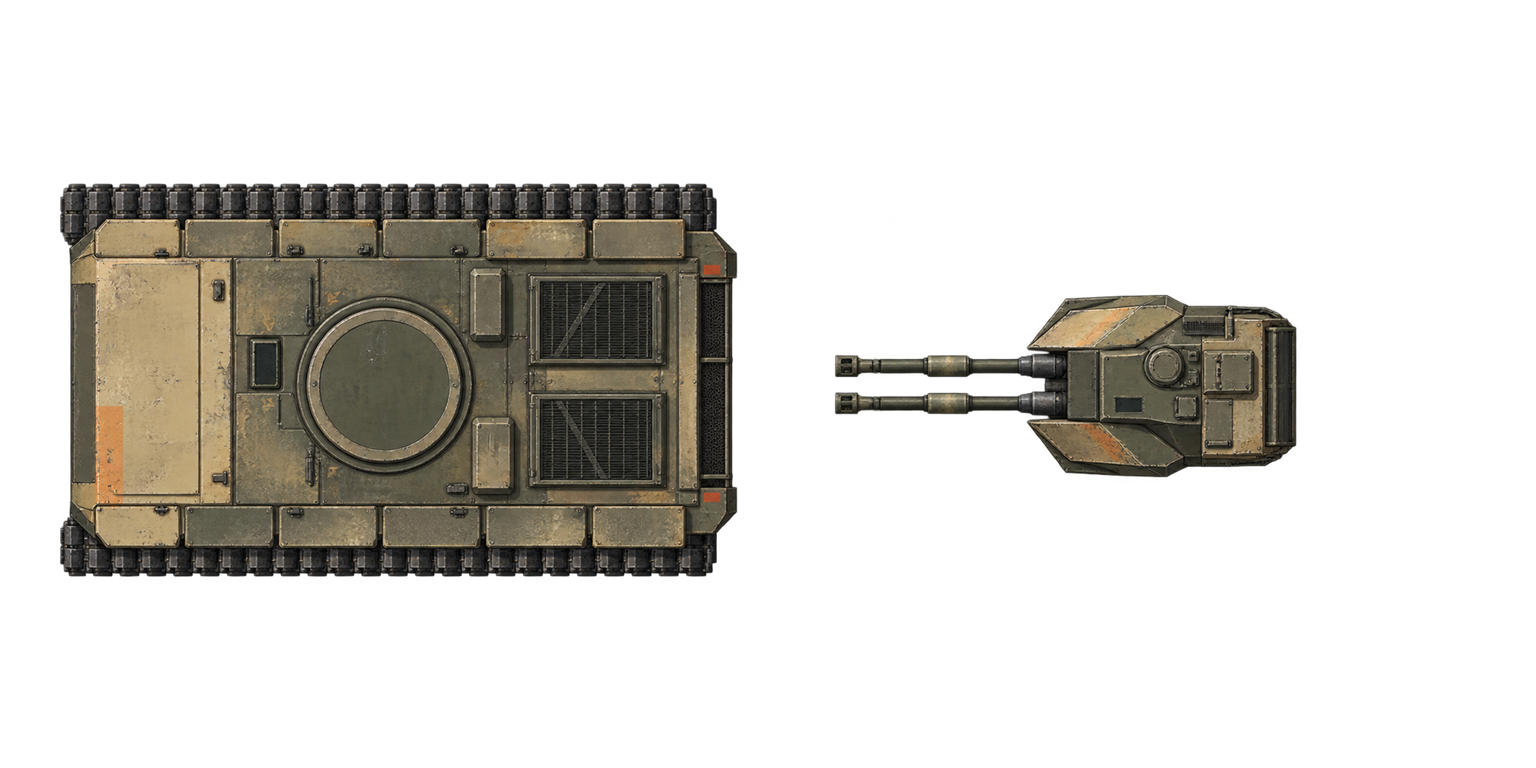
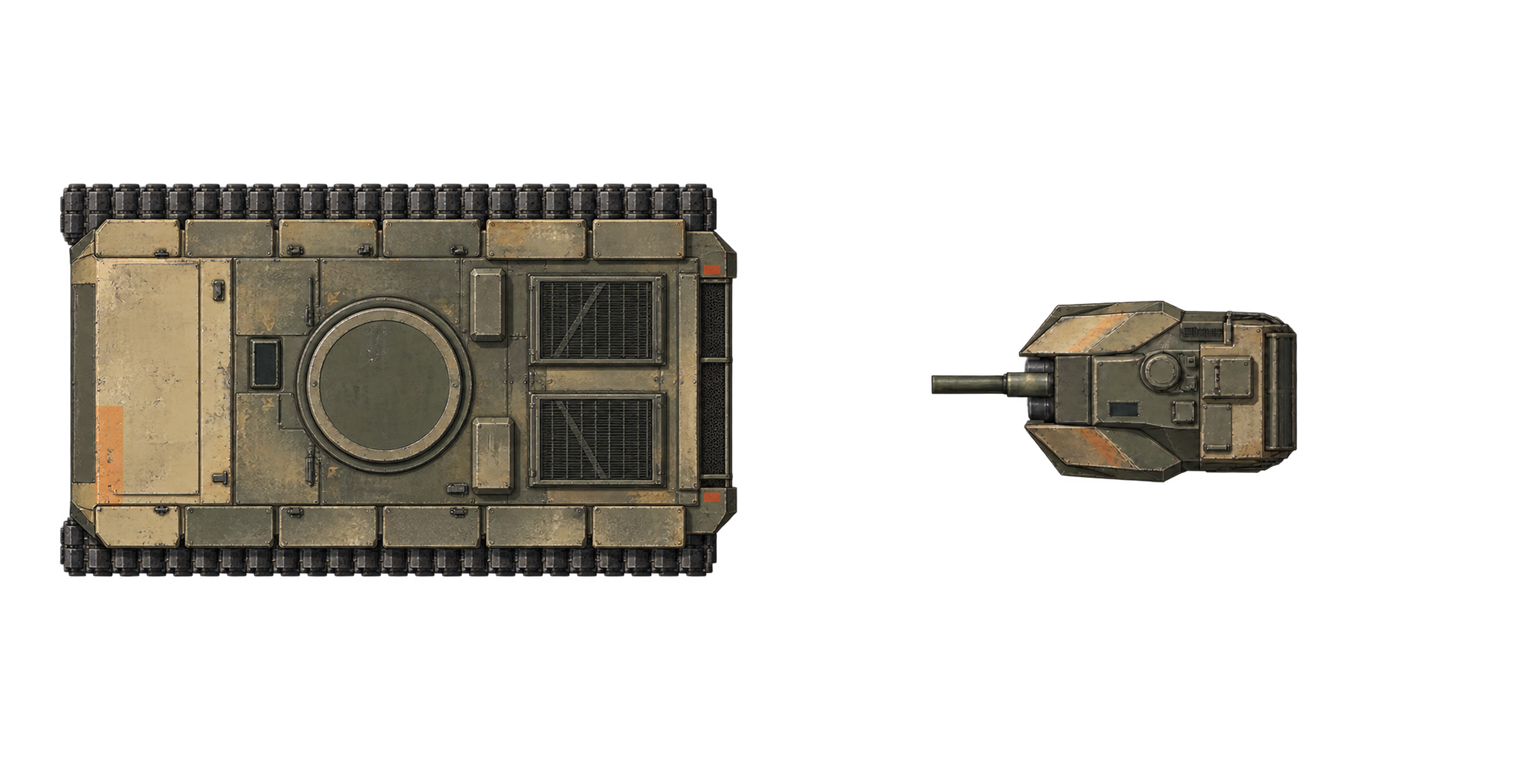
Fit a short single tank cannon and add campaign vehicle comparison

Changed region(s): [[0.5312, 0.375, 0.8438, 0.625]]

diff --git a/src/test/java/com/dillon/starsectormarines/ops/TankSnapshotSuite.java b/src/test/java/com/dillon/starsectormarines/ops/TankSnapshotSuite.java
@@ -1,17 +1,28 @@
 package com.dillon.starsectormarines.ops;
 
+import com.dillon.starsectormarines.battle.air.ShuttleAssignment;
+import com.dillon.starsectormarines.battle.air.ShuttleType;
 import com.dillon.starsectormarines.battle.nav.NavigationGrid;
+import com.dillon.starsectormarines.battle.setup.BattleSetup;
 import com.dillon.starsectormarines.battle.sim.BattleSimulation;
 import com.dillon.starsectormarines.battle.turret.TurretMountGeometry;
 import com.dillon.starsectormarines.battle.unit.Faction;
 import com.dillon.starsectormarines.battle.vehicle.VehicleMission;
 import com.dillon.starsectormarines.battle.vehicle.VehicleType;
 import com.dillon.starsectormarines.battle.world.model.CellTopology;
+import com.dillon.starsectormarines.battle.world.gen.SettlementLink;
+import com.dillon.starsectormarines.battle.world.gen.SurfacePalette;
+import com.dillon.starsectormarines.battle.world.gen.TargetProfile;
+import com.dillon.starsectormarines.campaign.FreightRunProgress;
 import com.dillon.starsectormarines.ops.battleview.BattleReviewFrameRenderer;
+import com.dillon.starsectormarines.ops.battleview.HeadlessArmoryPreviewRenderer;
 import com.dillon.starsectormarines.ops.battleview.ReviewAnnotation.Point;
 import com.dillon.starsectormarines.ops.battleview.ReviewAnnotations;
 import com.dillon.starsectormarines.ops.battleview.ReviewStyle;
 import com.dillon.starsectormarines.testsupport.DiskRegistries;
+import com.dillon.starsectormarines.testsupport.HeadlessSvgAssets;
+import com.dillon.starsectormarines.testsupport.InstalledHullSpecs;
+import com.dillon.starsectormarines.testsupport.InstalledVanillaData;
 import com.dillon.starsectormarines.tools.snapshot.SnapshotArtifact;
 import com.dillon.starsectormarines.tools.snapshot.SnapshotContext;
 import com.dillon.starsectormarines.tools.snapshot.SnapshotSuite;
@@ -19,6 +30,7 @@ import com.dillon.starsectormarines.tools.snapshot.SnapshotSuite;
 import java.awt.image.BufferedImage;
 import java.util.ArrayList;
 import java.util.List;
+import java.util.Set;
 
 /** Production convoy art poses plus a controlled autonomous-fire recoil review. */
 public final class TankSnapshotSuite implements SnapshotSuite {
@@ -62,7 +74,7 @@ public final class TankSnapshotSuite implements SnapshotSuite {
             markMuzzles(sweep, north, marks);
             markMuzzles(sweep, diagonal, marks);
             frames.add(renderer.render(sweep, "Tank registration | posed bearing " + angle
-                    + " degrees | crosses mark both ballistic muzzles | camera zoom only, UI 100%",
+                    + " degrees | crosses mark the single ballistic muzzle | camera zoom only, UI 100%",
                     marks.build()));
         }
         artifacts.add(new SnapshotArtifact("muzzle-registration.png", frames.get(0)));
@@ -82,14 +94,52 @@ public final class TankSnapshotSuite implements SnapshotSuite {
             firing.advance(BattleSimulation.TICK_DT);
             rounds += (int) firing.getShotsThisFrame().stream().filter(shot -> shot.shooterId == tank).count();
             if (tick % 2 == 0) recoil.add(renderer.render(firing,
-                    "Tank firing review | real paired-cannon shots and existing visual recoil | 1920 x 1080, UI 100%"));
+                    "Tank firing review | single cannon, existing two-round burst and recoil | 1920 x 1080, UI 100%"));
         }
-        if (rounds < 2) throw new IllegalStateException("Paired cannon did not fire: " + rounds);
+        if (rounds < 2) throw new IllegalStateException("Cannon burst did not fire: " + rounds);
         artifacts.add(SnapshotArtifact.colorAnimation("firing-recoil.gif", recoil, 67));
         firing.close();
         sweep.close();
         matrix.close();
+        campaignComparison(context, artifacts);
         return List.copyOf(artifacts);
+    }
+
+    /** Actual campaign factory and initial vehicle positions; only gun bearings are posed. */
+    private static void campaignComparison(SnapshotContext context, List<SnapshotArtifact> artifacts)
+            throws Exception {
+        HeadlessSvgAssets.install(context.modRoot());
+        HeadlessArmoryPreviewRenderer.installCatalogs(context.modRoot());
+        InstalledHullSpecs.install();
+        InstalledVanillaData.install();
+        var profile = new TargetProfile(0, 0, 0, 0, "", Set.of(),
+                SurfacePalette.VERDANT, SettlementLink.ROAD);
+        var manifest = List.of(new ShuttleAssignment(ShuttleType.AEROSHUTTLE, 2, 6),
+                new ShuttleAssignment(ShuttleType.AEROSHUTTLE, 2, 6));
+        var attempt = new FreightRunProgress("tank-art-thunder-run").previewAttempt();
+        try (var sim = BattleSetup.createThunderRun(9301, manifest, profile, attempt, 0)) {
+            ReviewAnnotations.Builder labels = ReviewAnnotations.builder();
+            for (long id : sim.getConvoyVehicleIds()) {
+                var body = sim.convoy().body(id);
+                var type = sim.convoy().vehicleType(id);
+                if (type.hasTurretWeapon()) sim.convoy().turret(id).facingDeg = body.facingDegrees;
+                if (body.x > 45) continue;
+                String name = switch (type) {
+                    case BREAKTHROUGH_TANK -> "TANK / SINGLE CANNON";
+                    case ESCORT_APC -> "APC ESCORT";
+                    case MILITIA_TECHNICAL -> "MILITIA TECHNICAL";
+                    case CARGO_CARRIER -> "FREIGHT HAULER";
+                    default -> type.name();
+                };
+                labels.label(body.x, body.y - 2.8f, name, ReviewStyle.NOTE);
+            }
+            var renderer = new BattleReviewFrameRenderer(context.modRoot(), 1920, 1080, 27, 76, 60);
+            artifacts.add(new SnapshotArtifact("campaign-context.png", renderer.render(sim,
+                    "THUNDER RUN / staging apron / seed 9301 / initial vehicle positions, guns posed forward / UI 100%")));
+            artifacts.add(new SnapshotArtifact("campaign-comparison.png", renderer.refocus(24, 76, 44).render(sim,
+                    "THUNDER RUN / tank, APCs, technical and freight / camera zoom only / 1920 x 1080, UI 100%",
+                    labels.build())));
+        }
     }
 
     private static BattleSimulation scene() {
@@ -110,13 +160,11 @@ public final class TankSnapshotSuite implements SnapshotSuite {
     private static void markMuzzles(BattleSimulation sim, long id, ReviewAnnotations.Builder marks) {
         var body = sim.convoy().body(id);
         // Tank bearing is registered at the chassis center; no body-relative mount offset.
-        for (int release = 0; release < 2; release++) {
-            var muzzle = TurretMountGeometry.muzzle(body.x, body.y,
-                    sim.convoy().turret(id).facingDeg, TANK.turretStructure().mount, release);
-            // Polyline points address cell centers; physical muzzles are world positions.
-            float x = muzzle.x() - .5f, y = muzzle.y() - .5f;
-            marks.polyline(List.of(new Point(x - .08f, y), new Point(x + .08f, y)), "", ReviewStyle.NOTE);
-            marks.polyline(List.of(new Point(x, y - .08f), new Point(x, y + .08f)), "", ReviewStyle.NOTE);
-        }
+        var muzzle = TurretMountGeometry.muzzle(body.x, body.y,
+                sim.convoy().turret(id).facingDeg, TANK.turretStructure().mount, 0);
+        // Polyline points address cell centers; physical muzzles are world positions.
+        float x = muzzle.x() - .5f, y = muzzle.y() - .5f;
+        marks.polyline(List.of(new Point(x - .08f, y), new Point(x + .08f, y)), "", ReviewStyle.NOTE);
+        marks.polyline(List.of(new Point(x, y - .08f), new Point(x, y + .08f)), "", ReviewStyle.NOTE);
     }
 }

diff --git a/src/main/java/com/dillon/starsectormarines/ops/SupplyRouteCampaign.java b/src/main/java/com/dillon/starsectormarines/ops/SupplyRouteCampaign.java
@@ -86,7 +86,7 @@ public final class SupplyRouteCampaign {
         String terms = kind == BrokenSupplyRouteProgress.JUNCTION
                 ? "Mara Venn: Getting the depot back has put Wayline on its feet again, Commander, but our freight is still stuck at the junction. When we sold the freighters, a debt-recovery outfit called Varro bought part of what we owed, and they have taken the junction as security: a toll on our drivers at the Weigh Station, and three months of contracted loads impounded in the bonded warehouse. The civil authority on Jangala calls it a lien between two freight companies and will not touch it. Iona Serr, our dispatch coordinator, needs the junction opened. Capture Weigh Station, Freight Yard and Junction Dispatch together. Six militia hold your gains while the company advances. Talon Two, a contracted Mudskipper gunship, goes ahead of your company to work the trenches dug across the road. You're paid on success; then we run the freed loads through the corridor on Thunder Run."
                 : kind == BrokenSupplyRouteProgress.THUNDER
-                ? "Mara Venn: The junction is open. Now we put freight through the corridor. Land at the staging apron, clear the roadside strongpoints at Dispatch Post, East Crossing and Outbound Gate. On our first arrival, an earlier unescorted hauler is already under attack; its local camera feed shows the danger. The loads freed at the junction wait at staging. Talon Two returns to give your company close air support after Dispatch is secured. We've hired more ground muscle for the final breakthrough: a twin-cannon heavy tank and two reinforced APCs. Clear Dispatch, then defend for 90 seconds; take East Crossing and defend for 120 seconds while small raider groups enter along the cross streets. Select an infantry squad and use DEFEND AREA to cover an approach. Eight militia anchor the gains and assemble two roadside machine guns if their crews reach the posts. Give your squads a new order when the dispatch window ends. Our three loads move in stages, with freight released at 45-second intervals during the final breakthrough. Beyond Outbound Gate, raiders hold a fenced inspection checkpoint with dug-in machine guns and rifle bays. The tank breaks that gun line; the APCs screen the crossing while the freight passes between them. Keep the road open for the convoy; raiders will try to cut off the column. Wayline is paying for the armored crews and vehicles; your company leads the advance. You're paid when the run is complete, with more for every carrier that gets through. Dispatch tracks every delivery and loss; if we have to pull back, we return for the remaining loads. Get at least one through and we can fund regular Route Security contracts."
+                ? "Mara Venn: The junction is open. Now we put freight through the corridor. Land at the staging apron, clear the roadside strongpoints at Dispatch Post, East Crossing and Outbound Gate. On our first arrival, an earlier unescorted hauler is already under attack; its local camera feed shows the danger. The loads freed at the junction wait at staging. Talon Two returns to give your company close air support after Dispatch is secured. We've hired more ground muscle for the final breakthrough: a heavy tank and two reinforced APCs. Clear Dispatch, then defend for 90 seconds; take East Crossing and defend for 120 seconds while small raider groups enter along the cross streets. Select an infantry squad and use DEFEND AREA to cover an approach. Eight militia anchor the gains and assemble two roadside machine guns if their crews reach the posts. Give your squads a new order when the dispatch window ends. Our three loads move in stages, with freight released at 45-second intervals during the final breakthrough. Beyond Outbound Gate, raiders hold a fenced inspection checkpoint with dug-in machine guns and rifle bays. The tank breaks that gun line; the APCs screen the crossing while the freight passes between them. Keep the road open for the convoy; raiders will try to cut off the column. Wayline is paying for the armored crews and vehicles; your company leads the advance. You're paid when the run is complete, with more for every carrier that gets through. Dispatch tracks every delivery and loss; if we have to pull back, we return for the remaining loads. Get at least one through and we can fund regular Route Security contracts."
                     + " Terms: Cr. 6,000, plus 4,000 per carrier delivered across the job, up to 18,000, settled when the run is complete."
                 : "Mara Venn: Capture Power Yard, Freight Gate and Relay Hall, retaining the landing apron. Eight militia hold secured ground while your company pushes forward. A limited raider reserve will try to retake your gains. Wayline pays for each security job held.";
         if (kind == BrokenSupplyRouteProgress.THUNDER && p.freight() != null) terms += " Freight ledger: " + p.freight().summary() + ".";

diff --git a/src/test/java/com/dillon/starsectormarines/battle/vehicle/GroundVehicleTurretSystemTest.java b/src/test/java/com/dillon/starsectormarines/battle/vehicle/GroundVehicleTurretSystemTest.java
@@ -203,7 +203,7 @@ class GroundVehicleTurretSystemTest {
     }
 
     @Test
-    void tankPairUsesSeparateMuzzlesAndStopsWhenItsFiniteMagazineIsEmpty() {
+    void tankBurstUsesSingleCenteredMuzzleAndStopsWhenItsFiniteMagazineIsEmpty() {
         Fixture f = new Fixture(VehicleType.BREAKTHROUGH_TANK);
         f.grid.setWalkable(20, 45, false);
         f.turret.ammo = 2;
@@ -215,7 +215,9 @@ class GroundVehicleTurretSystemTest {
         assertEquals(2, f.detonations.size(), "each shell has one shared blast, not a cosmetic duplicate");
         var first = f.shots.getActiveShots().get(0);
         var second = f.shots.getActiveShots().get(1);
-        assertEquals(2 * f.mount.mount.muzzleLateralOffsetCells, second.fromX - first.fromX, .001f);
+        assertEquals(f.mountX(), first.fromX, .001f);
+        assertEquals(first.fromX, second.fromX, .001f);
+        assertEquals(first.fromY, second.fromY, .001f);
         assertEquals(f.mountY() + f.mount.mount.muzzleOffsetCells, first.fromY, .001f);
         assertTrue(f.weapon.contactDamage > f.weapon.damage);
         assertTrue(f.weapon.contactPenetration > f.weapon.penetration);

diff --git a/src/test/java/com/dillon/starsectormarines/ops/battleview/ShotFxTest.java b/src/test/java/com/dillon/starsectormarines/ops/battleview/ShotFxTest.java
@@ -99,7 +99,7 @@ public class ShotFxTest {
             } else if (TurretCatalogRegistry.HEAVY_MG_STRUCTURE_ID.equals(structure.id)) {
                 assertTracerTail(fx, weapon, 0.55f, "heavy MG");
             } else if (TurretCatalogRegistry.TANK_CANNON_STRUCTURE_ID.equals(structure.id)) {
-                assertTracerTail(fx, weapon, 0.9f, "tank twin cannon");
+                assertTracerTail(fx, weapon, 0.9f, "tank cannon");
             } else {
                 assertNull(fx.tracerTail(), "turret has no authored tracer tail: " + structure.id);
             }

diff --git a/art-source/vehicles/tank/README.md b/art-source/vehicles/tank/README.md
@@ -1,22 +1,23 @@
-# Breakthrough tank and twin cannon
+# Breakthrough tank and single cannon
 
-Generated with built-in ImageGen from the geometry in `guide.png` and the exact
-saved `prompt.txt`. This pass replaces the rejected projecting bow and rounded
-turret with a broad, flat-fronted chassis inspired by the M1 Abrams and Japanese
-Type 10: long track runs, shallow front corner clips, a sloping upper glacis,
-driver position forward of the bearing and a rectangular rear engine deck.
+Built-in ImageGen produced the approved Abrams/Type 10-inspired hull and armor
+from the original prompt in `prompt.txt`. The current `guide.ps1` / `guide.png`
+retain that flat-fronted chassis and angular turret, with a shorter single cannon.
+The exposed tube is roughly half its previous length, with one modest collar
+and a plain muzzle. The compact armor cheeks and squared rear bustle still
+carry the silhouette. Faded khaki/olive-gray paint, ochre remnants and replacement
+panels suggest maintained, century-old Hegemony salvage. This provenance is
+Marine Operations art direction, not vanilla canon.
 
-The compact independent turret has separate angular cheek modules, a narrow
-mantlet and a squared rear ammunition bustle. Broad plane values and restrained
-bevels imply height from strict overhead. The twin cannons retain the existing
-weapon contract. Faded khaki/olive-gray paint, ochre remnants and mismatched
-replacement panels suggest maintained, scavenged Hegemony equipment a century
-old. This is user-directed Marine Operations fiction, not vanilla provenance.
+`master.png` is the unmodified 1774x887 original generation and remains the
+hull source. `turret-master.png` is the unmodified 1774x887 ImageGen edit made
+with `turret-prompt.txt`, using the original master as the edit target and
+the updated guide as the barrel geometry reference. Only its turret is used;
+the approved hull pixels are retained exactly.
 
-`master.png` is the unmodified 1774x887 generated result. ImageGen changed the
-guide's component scale and placement. `registration.json` records the measured
-rectangles, centers and uniform scales. `pack.ps1` preserves source alpha and
-proportions while registering two full 768x768 slots into
+`registration.json` names the source, measured rectangle, bearing and uniform
+scale for each component. `pack.ps1` preserves alpha and proportions while
+registering two full 768x768 slots into
 `mod/graphics/battle/vehicles/army-tank.png`. Reproduce with:
 
 ```powershell
@@ -24,22 +25,23 @@ proportions while registering two full 768x768 slots into
 & art-source/vehicles/tank/pack.ps1
 ```
 
-The hull bearing is at source (508,451), uniformly scaled by 0.73. The turret
-bearing is (1498,460.5), uniformly scaled by 0.7309469115702443. Both land on
-the centers of their output frames; mount and pivot compensation remain zero.
-The registered-frame loader retains alpha margins in production and headless
-review, rather than trimming the barrels and shifting the pivot.
+The hull bearing remains (508,451), scaled by 0.73. The new turret bearing is
+(1498,454), scaled by 0.7; its muzzle is (1182,454). Both components land on
+their output frame centers, with zero mount/pivot compensation. The unchanged
+4.3-cell hull frame and 7.789194-cell turret frame retain their alpha margins.
+The new centered muzzle is 2.2434501 cells forward, down from 3.21, with zero
+lateral offset. These are measured art registration values, not balance tuning.
 
-The unchanged hull frame is 4.3 cells long; the gun frame is 7.789194 cells.
-Gun source tips (1065,435) and (1065,486) land 3.21 cells forward and
-+/-0.18904 cells laterally, within 0.001 cells of the shared +/-0.19 hardpoints.
-Frame size includes transparency and is not the physical turret width.
-Weapon damage, ammunition, cadence, range, chassis footprint, movement and
-existing visual recoil are unchanged.
+The existing two-round burst, damage, ammunition, range and recoil remain.
+Both rounds now leave the same barrel. The visible catalog name is Breach
+Cannon; internal `tank-twin-cannon` ids and localization keys remain stable
+for compatibility with existing references.
 
-Review using `gradlew createSnapshots -Psnapshot=tank`. The suite renders
-four hull headings with independent gun bearings, a battle-scale still,
-a full posed turret rotation with crosses on both ballistic muzzles, and actual
-autonomously fired paired shots through the existing recoil renderer. All artifacts
-are 1920x1080 at 100% UI; close views change only the camera. Rotation poses
-are art evidence, not traverse timing or mission acceptance.
+Run `gradlew createSnapshots -Psnapshot=tank` for headings, battle scale,
+marked muzzle rotation and actual autonomous firing/recoil. The suite also
+builds Thunder Run seed 9301 through its production campaign factory and renders
+`campaign-context.png` and `campaign-comparison.png`: the actual starting
+tank, two APC escorts, technical and three cargo haulers. Initial positions and
+terrain are untouched; turret bearings are posed forward for visual comparison.
+All artifacts are 1920x1080 at 100% UI; close views change only camera zoom.
+This is pre-combat art evidence, not a mission balance or live-save acceptance run.

diff --git a/CLAUDE.md b/CLAUDE.md
@@ -1213,7 +1213,7 @@ The discovered suite ids and default output directories are:
 | Suite | Evidence | Output |
 |-------|----------|--------|
 | `apc` | Registered overhead APC hulls at four headings and battle scale, plus a full independent twin-MG rotation with ballistic muzzle marks; controlled art poses at 1920x1080/100%, not traverse timing or combat acceptance | `build/snapshots/apc/` |
-| `tank` | Registered tracked hull and twin-cannon turret at four headings and battle scale, full posed rotation with ballistic muzzle marks, and real autonomous-fire recoil; 1920x1080/100% art evidence, not mission acceptance | `build/snapshots/tank/` |
+| `tank` | Registered tracked hull and short single-cannon turret at four headings, full posed rotation with muzzle marks, real autonomous-fire recoil, and the production Thunder Run staging column alongside APCs, a technical and freight haulers; 1920x1080/100% art evidence, not mission acceptance | `build/snapshots/tank/` |
 | `shepherd-basin` | Three recovery-map visits at 1920×1080, authored night lighting, detailed grounded Shepherd and scrap, cargo/infantry access and clear construction plots across palettes and seeds; controlled player observation verifies lit hull surfaces and hidden hostiles, not full mission play or campaign settlement | `build/snapshots/shepherd-basin/` |
 | `ship-command-ui` | Production ship selector and contextual build tray at 1920×1080/100%, remote Move/Hold/Auto, physical turret construction, takeover handback and Cold Start's grounded power gate; controlled fixtures, not Working Passage or campaign ownership acceptance | `build/snapshots/ship-command-ui/` |
 | `working-passage` | Production departure mission with named companies and fitted boats, full-size low-hover Morrow, two construction stops, militia holds and physical climb-out; absent arrival, withheld construction, withdrawal/retry and disabled-ship controls. 1920×1080/100%, detached playback rather than live campaign acceptance; report in `build/reports/working-passage/playback.txt` | `build/snapshots/working-passage/` |

diff --git a/art-source/geometry-first-imagegen.md b/art-source/geometry-first-imagegen.md
@@ -59,7 +59,7 @@ Keep source inputs out of `mod/`; only exported art and its runtime catalog ship
 | Field salvage | `field-salvage-guide.py`; three clipped-corner open recovery skids, exposed material contents and shared lifting rails | `templates/field-salvage-guide.*`, `tilesets/field-salvage.*` | `field-salvage` |
 | Parked vehicles | `parked-vehicles-guide.ps1`; six east-facing overhead industrial/colonial chassis, symmetric tread tops and registered 3x2 placement frames | `templates/parked-vehicles-guide.*`, `tilesets/parked-vehicles.*` | `parked-vehicles` |
 | APC and roof MG | `vehicles/apc/guide.ps1`; six-wheel overhead hull, centerline roof bearing and independent gun; measured uniform export registers the bearing and ballistic muzzle | `vehicles/apc/` | `apc` |
-| Breakthrough tank | `vehicles/tank/guide.ps1`; flat-fronted Abrams/Type 10-inspired surplus hull, rear engine deck and compact twin-cannon turret with separate angular cheek modules; registered full frames preserve the bearing and both muzzle positions | `vehicles/tank/` | `tank` |
+| Breakthrough tank | `vehicles/tank/guide.ps1`; flat-fronted Abrams/Type 10-inspired surplus hull, rear engine deck and compact single-cannon turret with separate angular cheek modules; registered full frames preserve the bearing and both muzzle positions | `vehicles/tank/` | `tank` |
 | Barrel damage | `BarrelDamageReskinTemplate`; matching drum groups, dented lids, open curved metal shells and separate scraps | `templates/barrel-*.png`, `tilesets/barrel-damage.*` | `barrel-damage` |
 | Compound equipment damage | `CompoundPropDamageTemplate`; original placement frames, torn panels and low separate wreck fragments | `templates/compound-props-*.png`, `tilesets/compound-machinery-damage.*`, `tilesets/compound-command-damage.*` | `compound-prop-damage` |
 | Barracks bed damage | `berthing-bed-damage-guide.py`; four two-cell headings, torn bedding and separated low frame/mattress fragments | `templates/berthing-bed-*`, `tilesets/berthing-bed-damage.*` | `berthing-bed-damage` |

diff --git a/roadmap/convoy/design/convoy-nouns.md b/roadmap/convoy/design/convoy-nouns.md
@@ -586,7 +586,7 @@ lane polylines and lowers the mission's speed cap (Thunder Run's column driver,
 steering, footprint sweep and recovery remain the vehicle's own, and a route
 rebuilt mid-leg is an ordinary new corridor.
 A **heavy lead** is a story-support tank with finite armor, structure and a
-paired cannon magazine. Its independently traversing turret uses normal
+single-cannon magazine. Its independently traversing turret uses normal
 ballistic contact and blast payloads, so it can breach a gun line while lighter
 escorts screen infantry. It carries no passengers. The tracked silhouette uses
 a conservative rolling-turn envelope shared by route proof and body motion;
@@ -594,10 +594,11 @@ neutral pivot, track slip and player-owned tank logistics are not modeled.
 
 Its overhead hull has a broad, flat-fronted glacis between the tracks and a recessed
 engine deck at the rear, with continuous track tops and layered shoulder
-plates. The compact independent turret distinguishes its separate angular cheeks and narrow mantlet
-from the rear bustle. Both components retain their authored frame centers so
-traverse cannot move the bearing; paired visible muzzles follow the cannon's
-existing ballistic hardpoints. Armor volume comes from sloped planes and bevels,
+plates. The compact independent turret distinguishes its separate angular cheeks
+and narrow mantlet from the rear bustle. Both components retain their authored frame centers so
+traverse cannot move the bearing. A short, single barrel follows a centered
+ballistic hardpoint; its two-round autoloaded burst retains the existing damage
+and cadence. Armor volume comes from sloped planes and bevels,
 not a tilted camera or baked ground shadow. Its Abrams/Type 10-inspired shape, faded
 ochre paint and replacement panels depict scavenged, century-old Hegemony surplus.
 This provenance is Marine Operations art direction, not a claim about vanilla canon.

diff --git a/roadmap/campaign/early-operations/design/early-operation-nouns.md b/roadmap/campaign/early-operations/design/early-operation-nouns.md
@@ -1021,7 +1021,7 @@ and chassis clearance keep freight on the road.
 Cross streets still admit the raider reserve. Quiet dark carriageways, dirt
 loading lots and gravel inspection yards distinguish exterior surfaces from the
 repeated industrial building interiors using the existing terrain palette.
-One twin-cannon heavy tank leads two
+One single-cannon heavy tank leads two
 reinforced employer APCs and up to three unarmed industrial container haulers. Their distinct silhouettes separate fire support
 from the slower, longer freight column. Two boats deliver eight militia;
 the company's named troops arrive in their own fitted boats.
